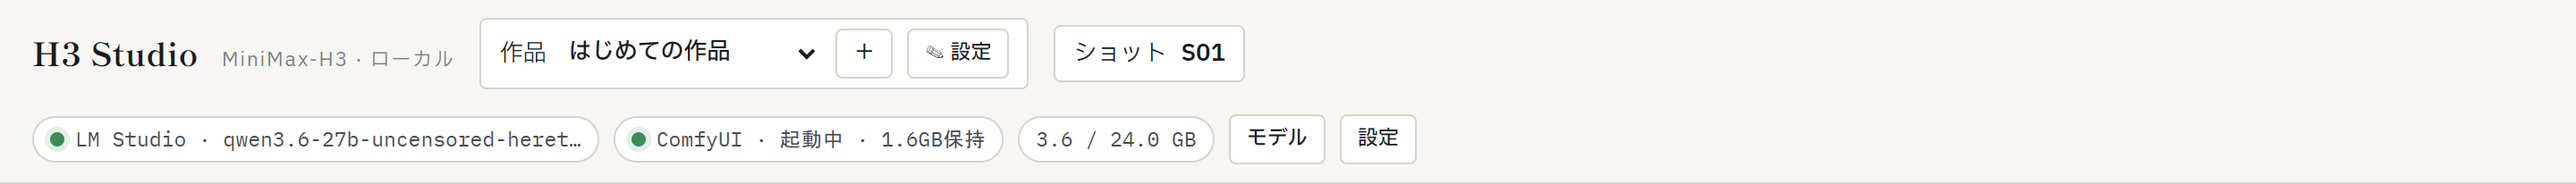
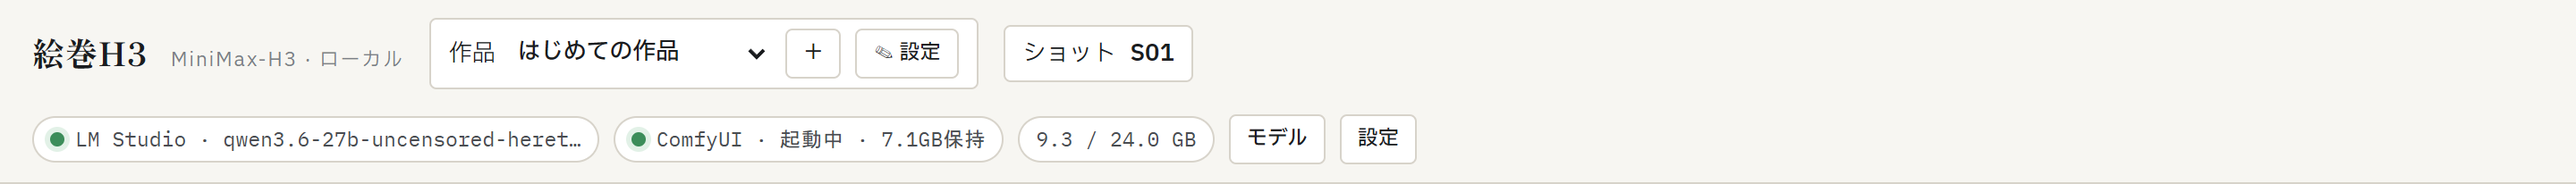
旧名の残存を解消（docs とモックアップを正本から再同期）
正本側は置換済みだったが、リポジトリのコピーが置換前のスナップショットだった。
リポジトリ全体の "H3 Studio" 残存は 0 件になった。

diff --git a/モックアップ.html b/モックアップ.html
@@ -1,4 +1,4 @@
-<title>H3 Studio</title>
+<title>絵巻H3</title>
 <link rel="stylesheet" href="https://fonts.googleapis.com/css2?family=Shippori+Mincho:wght@500;700&family=IBM+Plex+Sans+JP:wght@400;500;600&family=IBM+Plex+Mono:wght@400;500&display=swap">
 <style>
 :root{
@@ -191,7 +191,7 @@ h2 .sub{font-family:var(--sans);font-size:11.5px;color:var(--ink3);font-weight:4
 </style>
 
 <div class="top">
-  <div class="brand">H3 Studio <small>MiniMax-H3 · ローカル</small></div>
+  <div class="brand">絵巻H3 <small>MiniMax-H3 · ローカル</small></div>
   <div class="sel">作品 <b>夏の終わりの窓</b> <span style="color:var(--ink3)">▾</span></div>
   <div class="sel">ショット <b>S16</b> <span style="color:var(--ink3)">▾</span></div>
   <div class="spacer"></div>

diff --git a/docs/00_はじめに.md b/docs/00_はじめに.md
@@ -1,6 +1,6 @@
 # 00. はじめに
 
-H3 Studio の操作マニュアルです。**配布先で初めてこのアプリに触る人**が、画面に沿って1本目の動画を作れるようになることを目的にしています。
+絵巻H3（えまきエイチスリー）の操作マニュアルです。**配布先で初めてこのアプリに触る人**が、画面に沿って1本目の動画を作れるようになることを目的にしています。
 
 ## この文書の読み方
 
